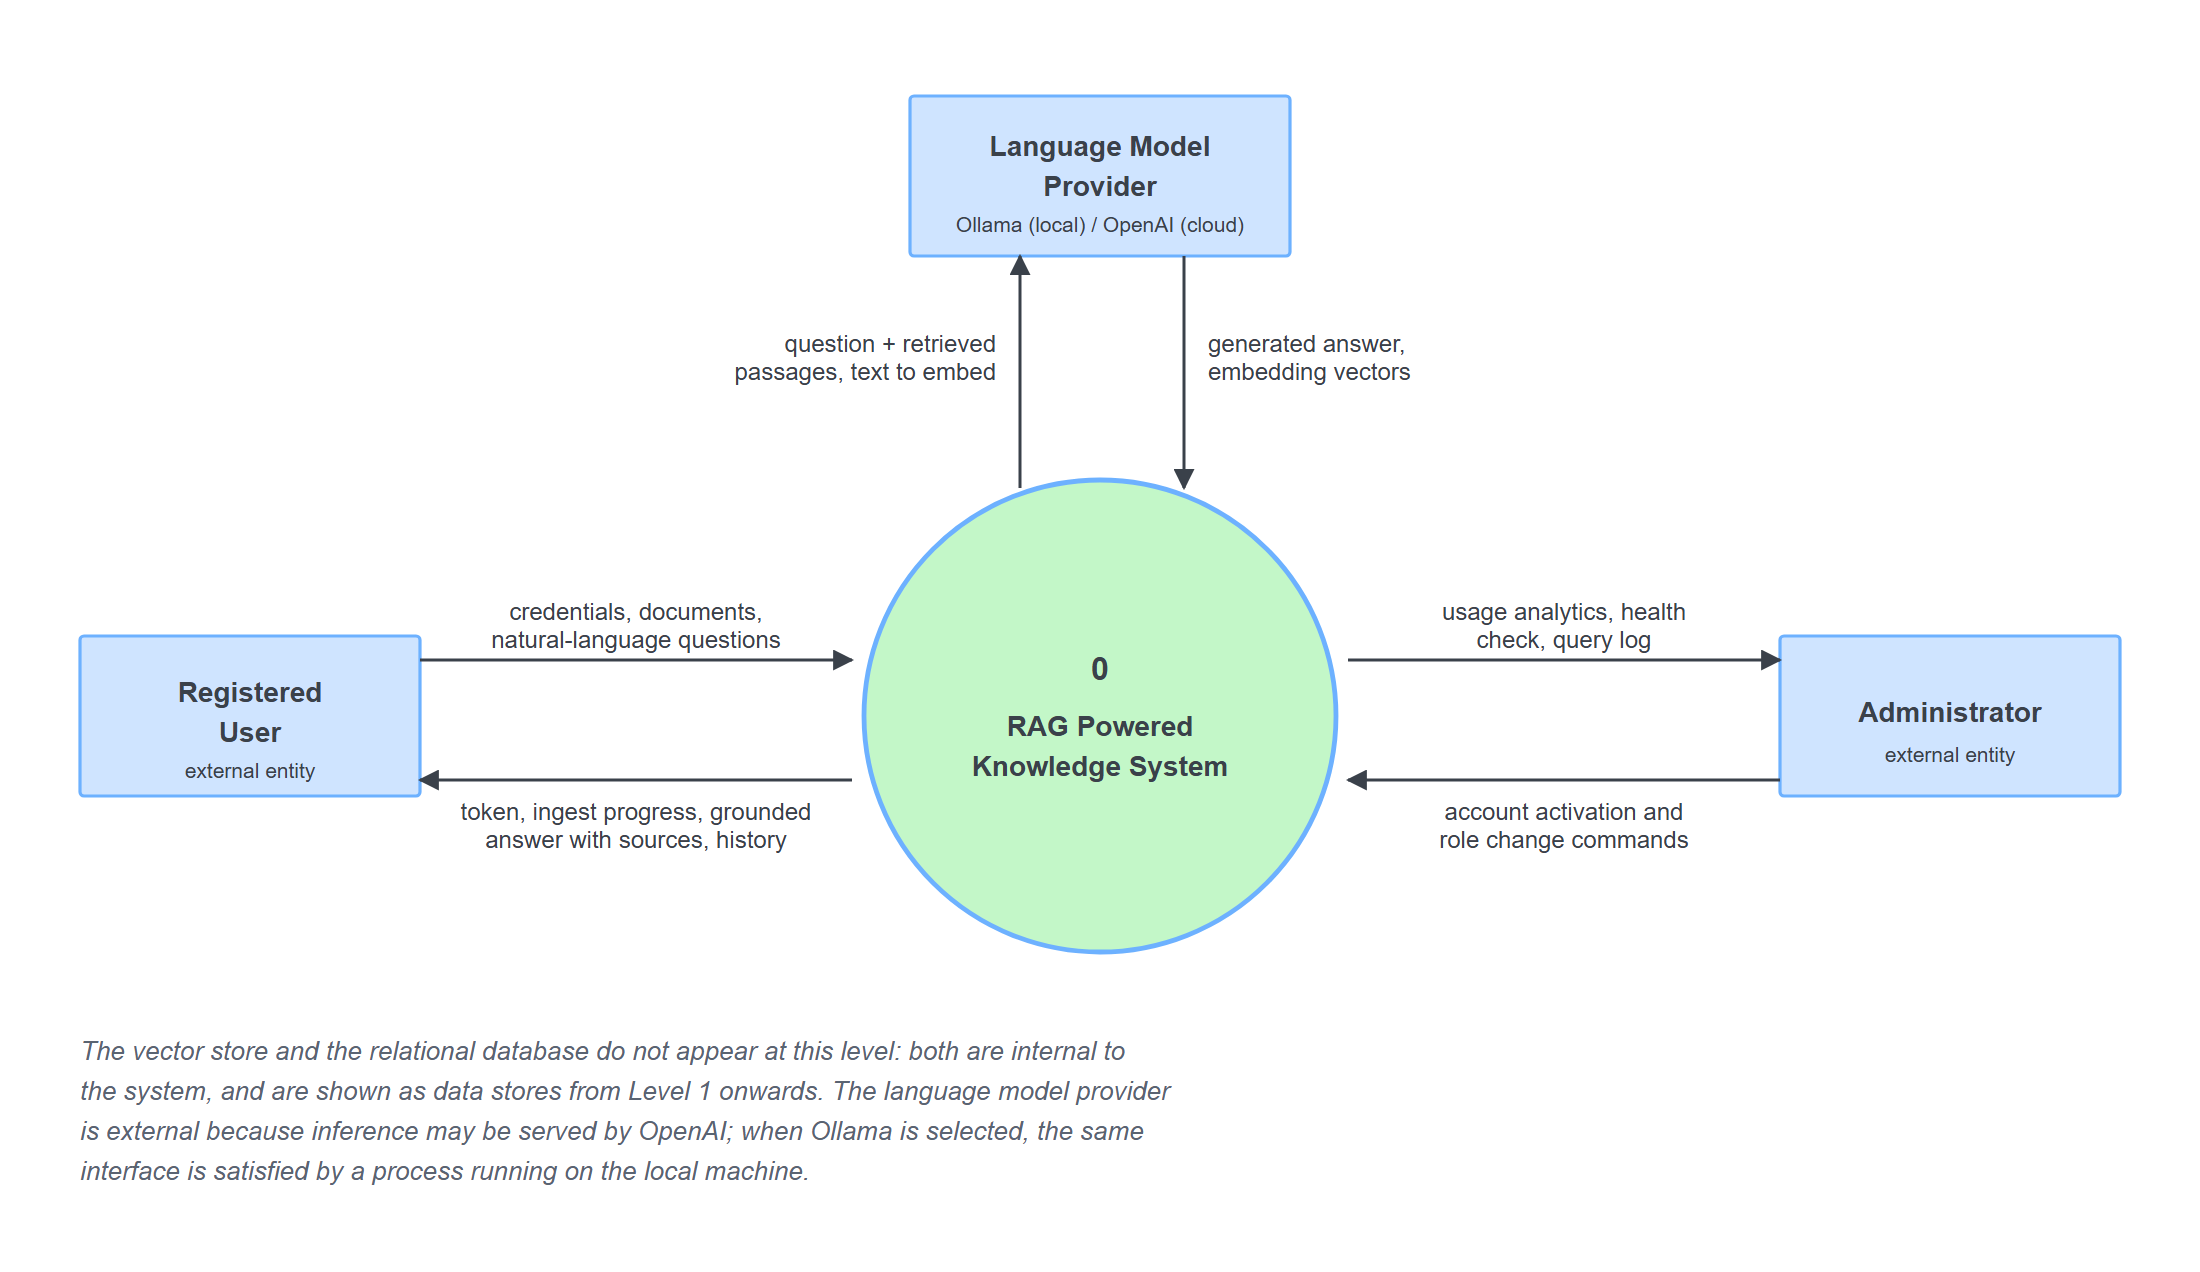
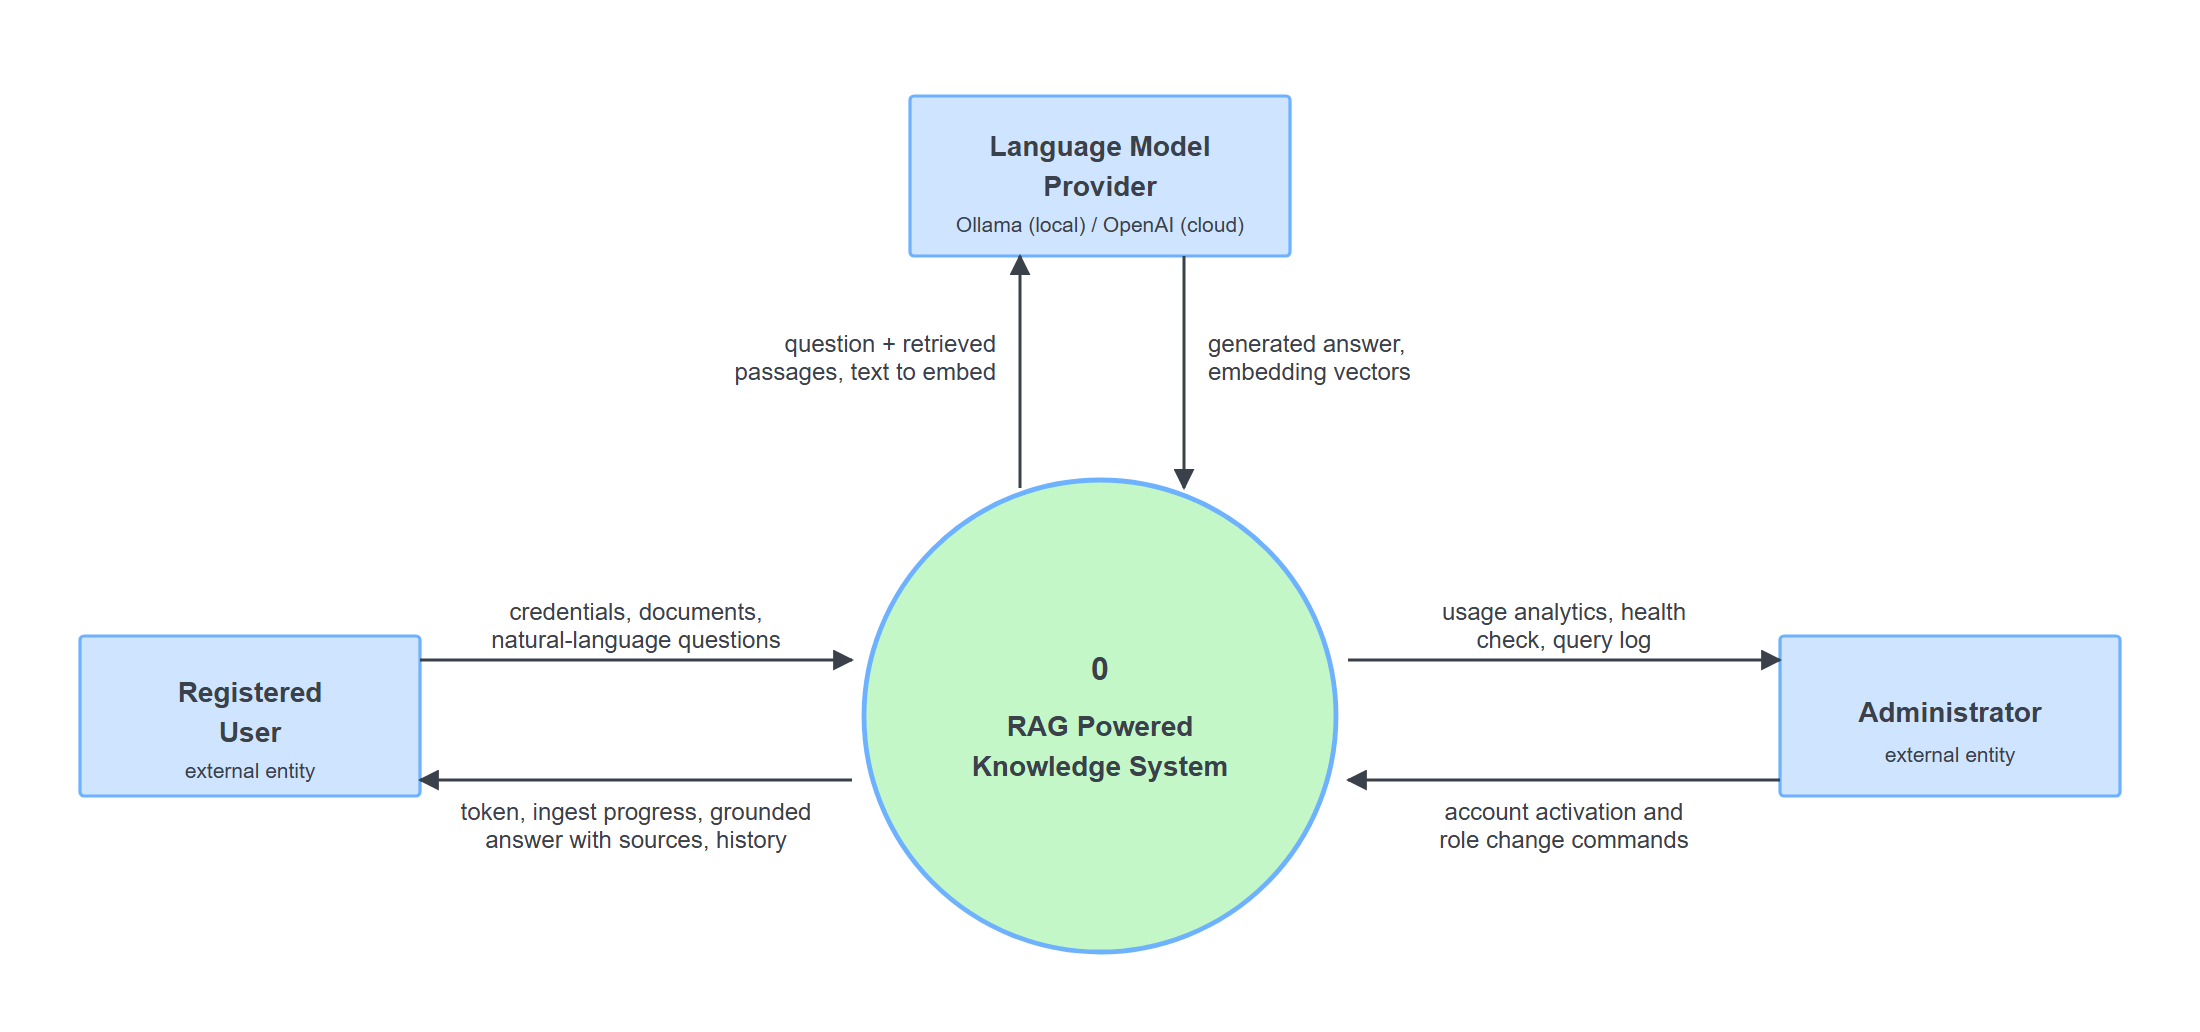
Figure 2.3: drop the note baked into the context diagram
The four italic lines under the context diagram explained that the vector
store and the relational database are internal and appear as data stores from
Level 1 onwards. The user asked for them gone; they said nothing the surrounding
text does not, and no other diagram in the report carries a note like it.

Canvas trimmed 600 -> 480 with them, since the lowest drawn element is the
bottom of the process circle at y=458. The rendered plate goes from 1100x636 to
1100x516, so at its printed width of 9.4in it is 4.41in tall rather than 5.43in.

Claude-Session: https://claude.ai/code/session_01HiVRZSPMf23bMHtuSbzDLL

Changed region(s): [[0.0309, 0.062, 0.9891, 0.9302], [0.4327, 0.5581, 0.5564, 0.6202]]

diff --git a/report/assets/diagrams-src/dfd-0-context.html b/report/assets/diagrams-src/dfd-0-context.html
@@ -14,7 +14,7 @@
 </head>
 <body>
 <div id="sheet">
-<svg width="1060" height="600" viewBox="0 0 1060 600" xmlns="http://www.w3.org/2000/svg">
+<svg width="1060" height="480" viewBox="0 0 1060 480" xmlns="http://www.w3.org/2000/svg">
   <defs>
     <marker id="arrow" viewBox="0 0 10 10" refX="9" refY="5"
             markerWidth="7" markerHeight="7" orient="auto-start-reverse">
@@ -76,11 +76,6 @@
   <text class="flow-label" x="584" y="158">generated answer,</text>
   <text class="flow-label" x="584" y="172">embedding vectors</text>
 
-  <!-- ================= note ================= -->
-  <text class="caption i" x="20" y="512">The vector store and the relational database do not appear at this level: both are internal to</text>
-  <text class="caption i" x="20" y="532">the system, and are shown as data stores from Level 1 onwards. The language model provider</text>
-  <text class="caption i" x="20" y="552">is external because inference may be served by OpenAI; when Ollama is selected, the same</text>
-  <text class="caption i" x="20" y="572">interface is satisfied by a process running on the local machine.</text>
 </svg>
 </div>
 </body>
